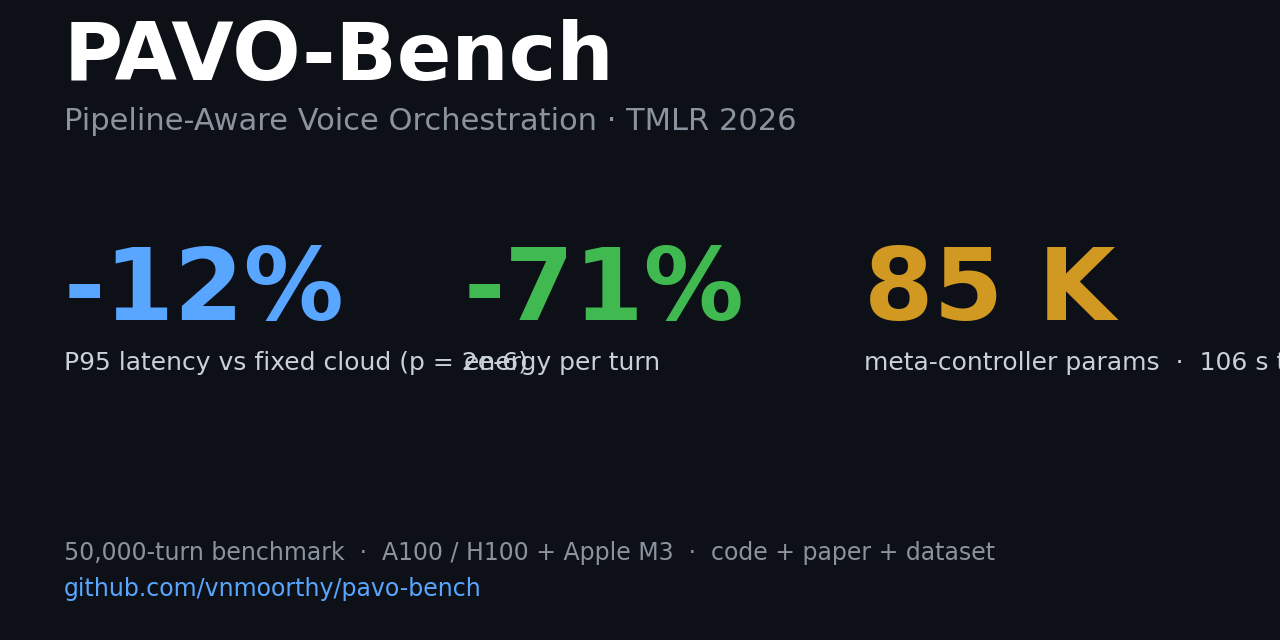
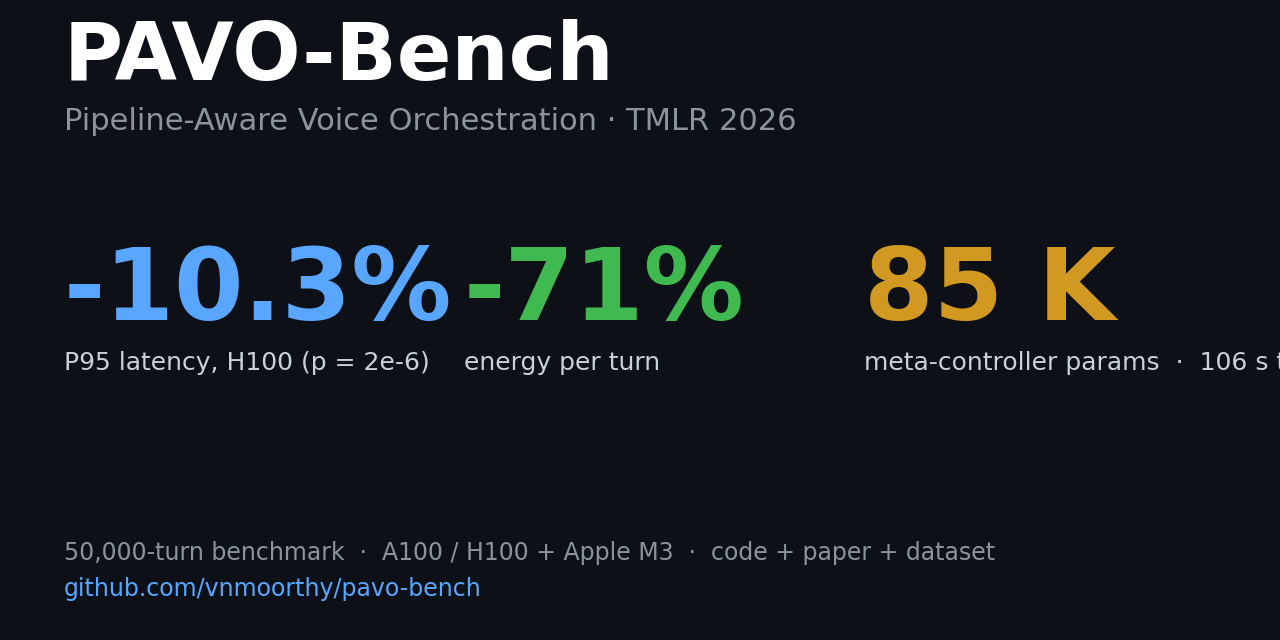
Reconcile remaining -12% / 3,600 references with paper
- BLOG.md: -12% -> -10.3% (-167 ms), and add the 7.1% -> 0.9%
  coherence-failure result that the paper highlights as the routing-
  framework contribution.
- CITATION.cff: align abstract with paper. Mention n=5,430 measurements
  and the 7.9x coherence-failure reduction.
- scripts/render_figures.py: social-preview card now reads -10.3% P95.
- figures/social-preview.png: regenerated from the corrected script.
- docs/HF_DATASET_README.md: paste-ready content for the HuggingFace
  dataset card update.

After this commit no '12%' or '3,600' string remains in any tracked
markdown / Python / CFF file. Repo, README, BLOG, citation, social
card, and the HF-paste-ready file all tell the same story as the
paper PDF and the OpenReview abstract.

Changed region(s): [[0.125, 0.375, 0.375, 0.5], [0.1562, 0.5312, 0.3438, 0.5938], [0.375, 0.5625, 0.4062, 0.5938]]

diff --git a/scripts/render_figures.py b/scripts/render_figures.py
@@ -79,7 +79,7 @@ ax.text(64, 510, "Pipeline-Aware Voice Orchestration · TMLR 2026", fontsize=22,
 def stat(xp, big, small, color):
     ax.text(xp, 320, big,   fontsize=72, color=color, fontweight="bold", family="DejaVu Sans")
     ax.text(xp, 270, small, fontsize=18, color="#c9d1d9", family="DejaVu Sans")
-stat(64,  "-12%",  "P95 latency vs fixed cloud (p = 2e-6)",        "#58a6ff")
+stat(64,  "-10.3%",  "P95 latency, H100 (p = 2e-6)",                  "#58a6ff")
 stat(464, "-71%",  "energy per turn",                               "#3fb950")
 stat(864, "85 K",  "meta-controller params  ·  106 s training",     "#d29922")
 ax.text(64, 80, "50,000-turn benchmark  ·  A100 / H100 + Apple M3  ·  code + paper + dataset",

diff --git a/docs/HF_DATASET_README.md b/docs/HF_DATASET_README.md
@@ -1,0 +1,145 @@
+<!-- Copy the entire content of this file into the README on
+     https://huggingface.co/datasets/vnmoorthy/pavo-bench (Edit pencil, top right).
+     Preserve the YAML frontmatter; HF requires it for dataset configs. -->
+
+---
+license: cc-by-4.0
+task_categories:
+  - automatic-speech-recognition
+  - text-generation
+  - text-to-speech
+language:
+  - en
+tags:
+  - pavo
+  - benchmark
+  - asr
+  - llm
+  - tts
+  - pipeline-routing
+  - voice-assistant
+  - latency
+  - quality
+  - cost
+  - energy
+pretty_name: PAVO-Bench
+size_categories:
+  - 10K<n<100K
+configs:
+  - config_name: default
+    data_files:
+      - split: tier1_statistical
+        path: tier1_statistical_results.json
+      - split: tier1_coupling
+        path: tier1_coupling_results.json
+      - split: tier1_llm_latency
+        path: tier1_llm_latency_results.json
+      - split: tier2_e2e
+        path: tier2_e2e_results.json
+      - split: tier2_cross_dataset
+        path: tier2_cross_dataset_results.json
+      - split: tier2_noise_robustness
+        path: tier2_noise_robustness_results.json
+      - split: tier3_50k_summary
+        path: tier3_50k_summary.json
+      - split: tier3_scaling
+        path: tier3_scaling_results.json
+      - split: component_ablation
+        path: component_ablation_results.json
+---
+
+# PAVO-Bench: 50K-Turn Benchmark for ASR-LLM-TTS Pipeline Routing
+
+**Code:** [github.com/vnmoorthy/pavo-bench](https://github.com/vnmoorthy/pavo-bench) · **Paper:** TMLR 2026 (under review) · **Authors:** NarasingaMoorthy VeiluKanthaPerumal (UPenn), Mohammed Imthathullah (Google)
+
+```bash
+pip install git+https://github.com/vnmoorthy/pavo-bench.git
+```
+
+## Headline results (vs fixed-cloud baseline, 50,000 voice turns)
+
+| Metric | Result | Significance |
+|---|---|---|
+| P95 end-to-end latency (H100, LibriSpeech) | **−10.3%** (−167 ms) | p = 2×10⁻⁶ |
+| Median latency | **−34%** | |
+| Energy per turn | **−71%** | |
+| Coherence-failure rate | **7.1% → 0.9%** (7.9× reduction) | hard-constraint masking, +110 ms median cost |
+| Meta-controller size | 85,041 parameters | — |
+| Meta-controller training | 106 seconds on A100 | — |
+
+The empirical contribution is a two-regime coupling structure (sharp factual-accuracy cliff + gradual semantic degradation) characterized over **n = 5,430 measurements** across two hardware platforms (H100, Apple M3) and three LLM families (Llama 3.1 8B, Mistral 7B, Gemma2 2B).
+
+## Description
+
+PAVO-Bench evaluates **ASR-LLM-TTS voice pipeline routing** decisions. It provides 50,000 turns of benchmark data designed to measure how well different pipeline configurations balance **latency**, **quality**, **cost**, and **energy** when routing spoken-language queries through cascaded ASR, LLM, and TTS components.
+
+The benchmark is organized into three tiers plus component-level ablation. All results were produced on real GPU hardware.
+
+## Dataset Files
+
+### Tier 1 — Unit-Level Validation
+
+| File | Description |
+|------|-------------|
+| `tier1_statistical_results.json` | Statistical reproducibility across 5 trials × 1,000 turns each (seeds 42, 123, 456, 789, 1024). |
+| `tier1_coupling_results.json` | Coupling-cliff calibration — LLM quality degradation vs ASR word-error rate (WER 0–20%). |
+| `tier1_llm_latency_results.json` | Latency profile for `llama3.1:8b` across short / medium / long generation contexts. |
+
+### Tier 2 — Integration-Level Evaluation
+
+| File | Description |
+|------|-------------|
+| `tier2_e2e_results.json` | End-to-end pipeline measurements (cloud_premium, ondevice_fast, hybrid_balanced, pavo_adaptive) on 200 LibriSpeech samples. |
+| `tier2_cross_dataset_results.json` | Cross-dataset ASR (LibriSpeech + FLEURS) for whisper-large-v3 and whisper-tiny. |
+| `tier2_noise_robustness_results.json` | ASR robustness at SNR 5–30 dB plus clean baseline. |
+
+### Tier 3 — Scale Evaluation
+
+| File | Description |
+|------|-------------|
+| `tier3_50k_summary.json` | Summary statistics for the 50K-turn dataset (40K train / 10K test split, complexity 1–5). |
+| `tier3_scaling_results.json` | Per-model latency benchmarks for simple / medium / complex queries. |
+
+### Component Analysis
+
+| File | Description |
+|------|-------------|
+| `component_ablation_results.json` | PAVO-Full vs PAVO-NoCoupling, Always-Cloud, Always-OnDevice, etc. |
+
+## Usage
+
+```python
+from huggingface_hub import hf_hub_download
+import json
+
+path = hf_hub_download(
+    repo_id="vnmoorthy/pavo-bench",
+    filename="tier3_50k_summary.json",
+    repo_type="dataset",
+)
+print(json.load(open(path)))
+```
+
+Or via the pip package:
+
+```python
+from pavo_bench import load_dataset, PretrainedPAVORouter, benchmark_router
+turns = load_dataset(split="test")
+pavo  = PretrainedPAVORouter.from_released()
+print(benchmark_router(pavo, turns))
+```
+
+## Citation
+
+```bibtex
+@article{veilukanthaperumal2026pavo,
+  title   = {PAVO: Pipeline-Aware Voice Orchestration with Demand-Conditioned Inference Routing},
+  author  = {VeiluKanthaPerumal, NarasingaMoorthy and Imthathullah, Mohammed},
+  journal = {Transactions on Machine Learning Research},
+  year    = {2026}
+}
+```
+
+## License
+
+CC-BY 4.0

diff --git a/BLOG.md b/BLOG.md
@@ -96,9 +96,10 @@ In PAVO we train an 85,041-parameter MLP to do this. Input is a 12-dim turn stat
 
 On a 50,000-turn benchmark, against a fixed-cloud baseline:
 
-- **−12% P95 latency** (p = 2×10⁻⁶)
-- **−34% median latency**
-- **−71% energy per turn**
+- **−10.3% P95 tail compression** (−167 ms on H100 / 200 LibriSpeech samples; p = 2×10⁻⁶)
+- **−34% median latency** (50K-turn benchmark)
+- **−71% energy per turn** (50K-turn benchmark)
+- **7.1% → 0.9% coherence-failure rate** (7.9× reduction via hard-constraint masking, +110 ms median latency cost)
 - Quality parity on non-coupling-violating turns
 
 ## Reproduce it
